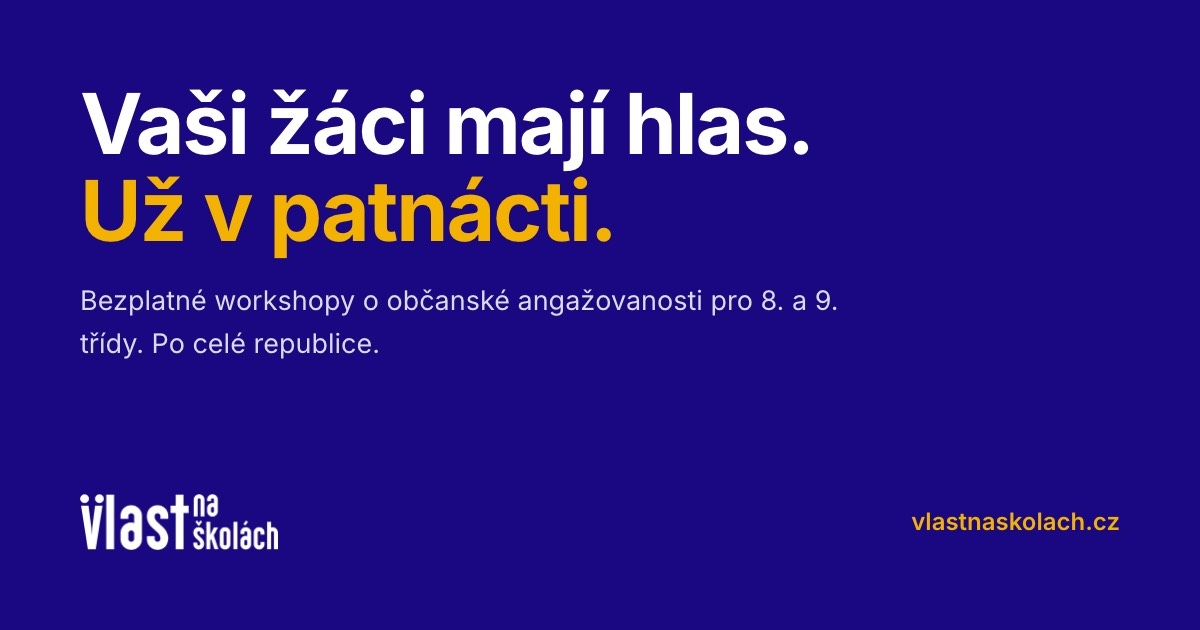
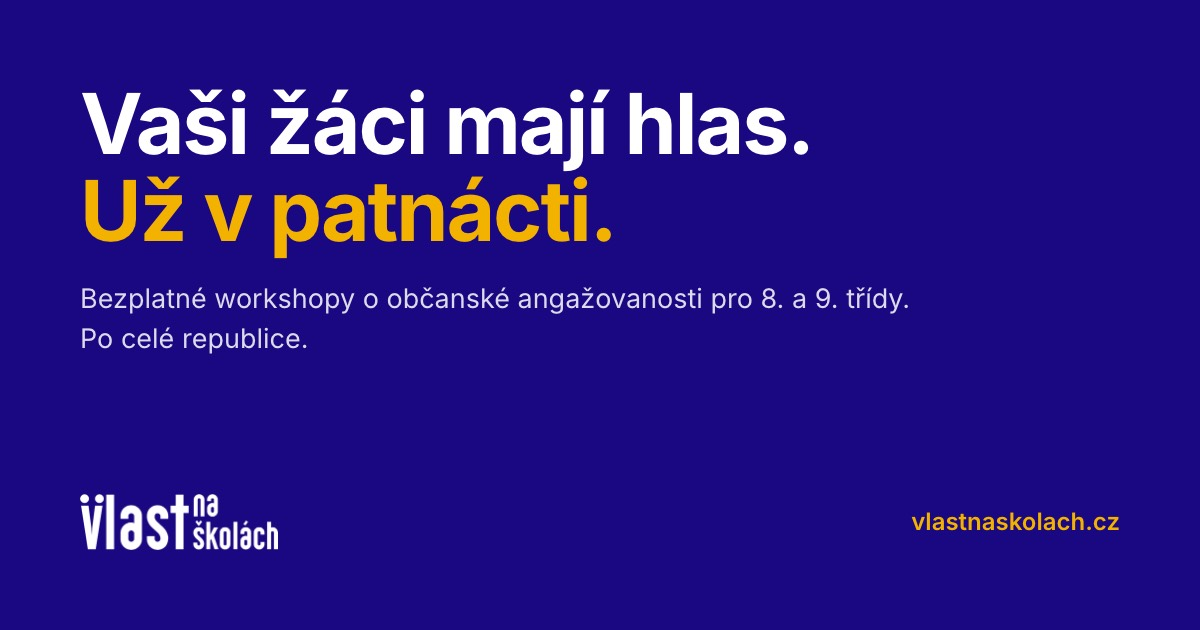
Radek nesmi koncit cislovkou; sazba nahledoveho obrazku
Cislo se nove vaze pevnou mezerou ke slovu za nim, takze "8. a 9. tridy"
zustane pohromade a radek vzdy konci slovem. 12 vazeb v index.html
vcetne title a meta popisku.

og.jpg prelomeny natvrdo: prvni radek konci slovem "tridy.", druhy je
samotne "Po cele republice."

CLAUDE.md: pravidlo o cislovkach doplneno k typografii.

Changed region(s): [[0.0617, 0.4524, 0.7708, 0.573]]

diff --git a/index.html b/index.html
@@ -3,14 +3,14 @@
 <head>
 <meta charset="utf-8">
 <meta name="viewport" content="width=device-width, initial-scale=1">
-<title>Vlast na školách — workshopy o&nbsp;občanské angažovanosti pro 8. a&nbsp;9. třídy</title>
-<meta name="description" content="Bezplatné workshopy o občanské angažovanosti, moderních dějinách a kritickém myšlení pro žáky 8. a 9. tříd. Jezdíme po celé ČR, hlavně do odlehlejších regionů.">
+<title>Vlast na školách — workshopy o&nbsp;občanské angažovanosti pro 8.&nbsp;a&nbsp;9.&nbsp;třídy</title>
+<meta name="description" content="Bezplatné workshopy o občanské angažovanosti, moderních dějinách a kritickém myšlení pro žáky 8.&nbsp;a 9.&nbsp;tříd. Jezdíme po celé ČR, hlavně do odlehlejších regionů.">
 <link rel="icon" href="favicon.ico" sizes="any">
 <link rel="icon" type="image/png" href="assets/ikona.png">
 <link rel="apple-touch-icon" href="assets/apple-touch-icon.png?v=2">
 
 <meta property="og:title" content="Vlast na školách">
-<meta property="og:description" content="Bezplatné workshopy o občanské angažovanosti pro žáky 8. a 9. tříd základních škol.">
+<meta property="og:description" content="Bezplatné workshopy o občanské angažovanosti pro žáky 8.&nbsp;a 9.&nbsp;tříd základních škol.">
 <meta property="og:type" content="website">
 <meta property="og:url" content="https://www.vlastnaskolach.cz/">
 <link rel="canonical" href="https://www.vlastnaskolach.cz/">
@@ -62,7 +62,7 @@ if (window.IntersectionObserver &&
 <section class="hero">
   <div class="wrap">
     <h1>Vaši žáci mají hlas. <em>Už&nbsp;v&nbsp;patnácti.</em></h1>
-    <p>Vozíme do škol workshopy o&nbsp;občanské angažovanosti, moderních dějinách a&nbsp;kritickém myšlení. Pro žáky 8. a&nbsp;9. tříd, po celé republice, zdarma.</p>
+    <p>Vozíme do škol workshopy o&nbsp;občanské angažovanosti, moderních dějinách a&nbsp;kritickém myšlení. Pro žáky 8.&nbsp;a&nbsp;9.&nbsp;tříd, po celé republice, zdarma.</p>
     <div class="hero-actions">
       <a href="#prihlaska" class="btn">Objednat workshop pro školu</a>
       <a href="#o-projektu" class="btn btn-ghost">Co děláme</a>
@@ -84,7 +84,7 @@ if (window.IntersectionObserver &&
 
 <!-- POSUVNY PAS -->
 <div class="pas" aria-hidden="true">
-  <div class="pas-stopa"><span>Workshopy zdarma</span><span class="pas-tecka">·</span><span>Po&nbsp;celé republice</span><span class="pas-tecka">·</span><span>Pro 8.&nbsp;a&nbsp;9. třídy</span><span class="pas-tecka">·</span><span>Přijedeme k&nbsp;vám do&nbsp;školy</span><span class="pas-tecka">·</span><span>Workshopy zdarma</span><span class="pas-tecka">·</span><span>Po&nbsp;celé republice</span><span class="pas-tecka">·</span><span>Pro 8.&nbsp;a&nbsp;9. třídy</span><span class="pas-tecka">·</span><span>Přijedeme k&nbsp;vám do&nbsp;školy</span><span class="pas-tecka">·</span></div>
+  <div class="pas-stopa"><span>Workshopy zdarma</span><span class="pas-tecka">·</span><span>Po&nbsp;celé republice</span><span class="pas-tecka">·</span><span>Pro 8.&nbsp;a&nbsp;9.&nbsp;třídy</span><span class="pas-tecka">·</span><span>Přijedeme k&nbsp;vám do&nbsp;školy</span><span class="pas-tecka">·</span><span>Workshopy zdarma</span><span class="pas-tecka">·</span><span>Po&nbsp;celé republice</span><span class="pas-tecka">·</span><span>Pro 8.&nbsp;a&nbsp;9.&nbsp;třídy</span><span class="pas-tecka">·</span><span>Přijedeme k&nbsp;vám do&nbsp;školy</span><span class="pas-tecka">·</span></div>
 </div>
 
 <!-- O PROJEKTU -->
@@ -95,7 +95,7 @@ if (window.IntersectionObserver &&
       <h2>Angažovanost začíná drobnými činy</h2>
     </div>
     <div>
-      <p class="lead">Jsme neformální skupina pěti studentů napříč republikou. Naším cílem je ukázat žákům 8. a&nbsp;9. tříd základních škol, že občanská angažovanost může začít i&nbsp;drobnými činy.</p>
+      <p class="lead">Jsme neformální skupina pěti studentů napříč republikou. Naším cílem je ukázat žákům 8.&nbsp;a&nbsp;9.&nbsp;tříd základních škol, že občanská angažovanost může začít i&nbsp;drobnými činy.</p>
       <p>Drobné i&nbsp;větší příležitosti participace jim pomůžou lépe poznat vlastní hodnoty a&nbsp;schopnosti – a&nbsp;získat jistotu, že jejich hlas má ve společnosti váhu, i&nbsp;když se v&nbsp;patnácti teprve rozhodují, kam dál.</p>
       <p>Workshopy vedou studenti středních a&nbsp;vysokých škol. Věkový odstup je malý, a&nbsp;to je záměr: o&nbsp;tom, jak se dá něco změnit, se lépe mluví s&nbsp;někým, kdo si tím sám nedávno prošel.</p>
     </div>

diff --git a/CLAUDE.md b/CLAUDE.md
@@ -118,6 +118,8 @@ Tohle na webu hlídej, jsou to chyby, které učitel pozná na první pohled:
 - **Pevná mezera** i po `č.` před číslem a mezi číslem a jednotkou (`3&nbsp;h`).
 - **České uvozovky** jsou `„takto“`, ne `"takto"`.
 - **Pomlčka** `–` s mezerami, ne spojovník `-`. Rozsahy bez mezer: `8.–9.`
+- **Řádek nikdy nesmí skončit číslovkou.** Číslo se váže pevnou mezerou
+  ke slovu za ním: `8.&nbsp;a&nbsp;9.&nbsp;třídy`, ne `8. a 9.` na konci řádku.
 - **Nadpis nesmí ztratit smysl zalomením.** Proto je v heru celá věta
   „Už v patnácti." svázaná pevnými mezerami.
 
